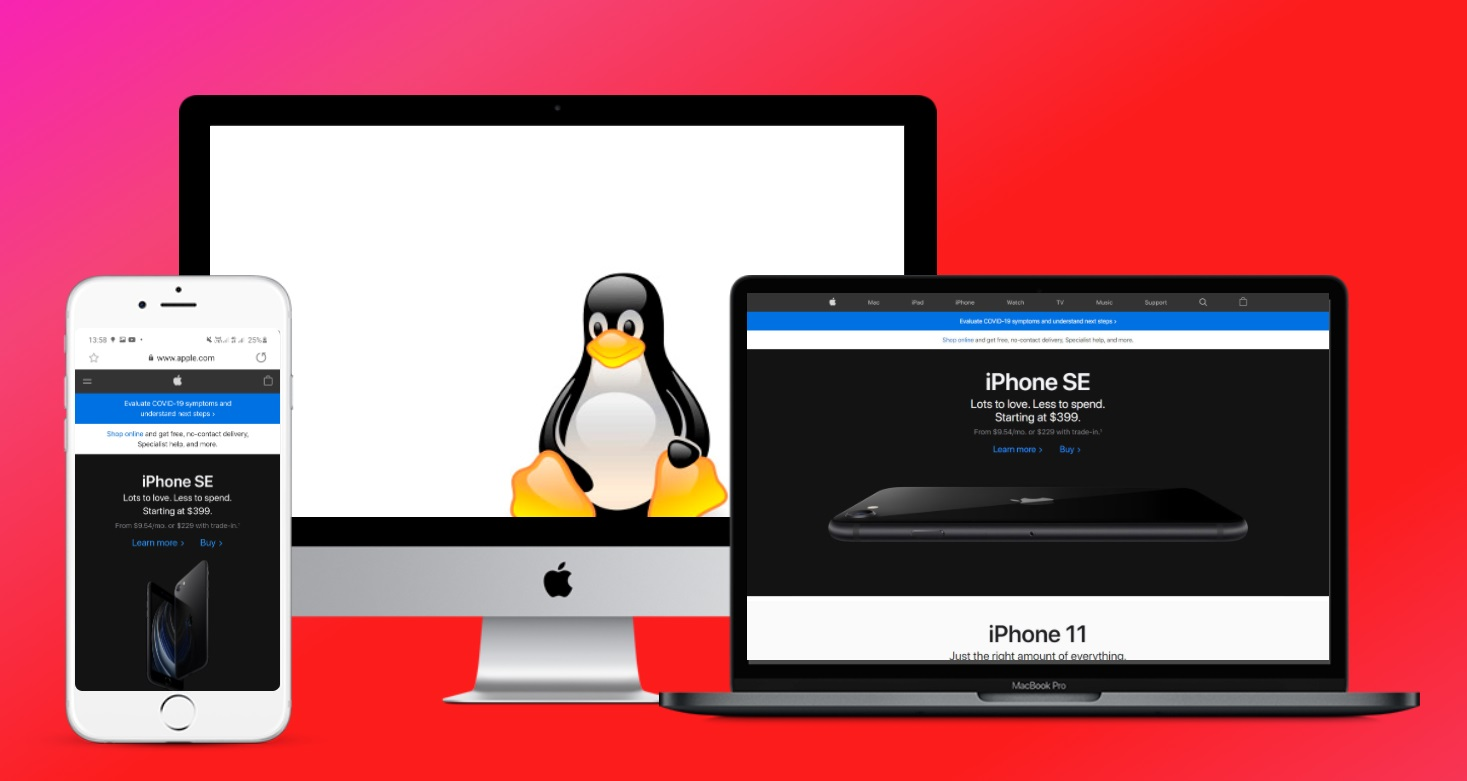
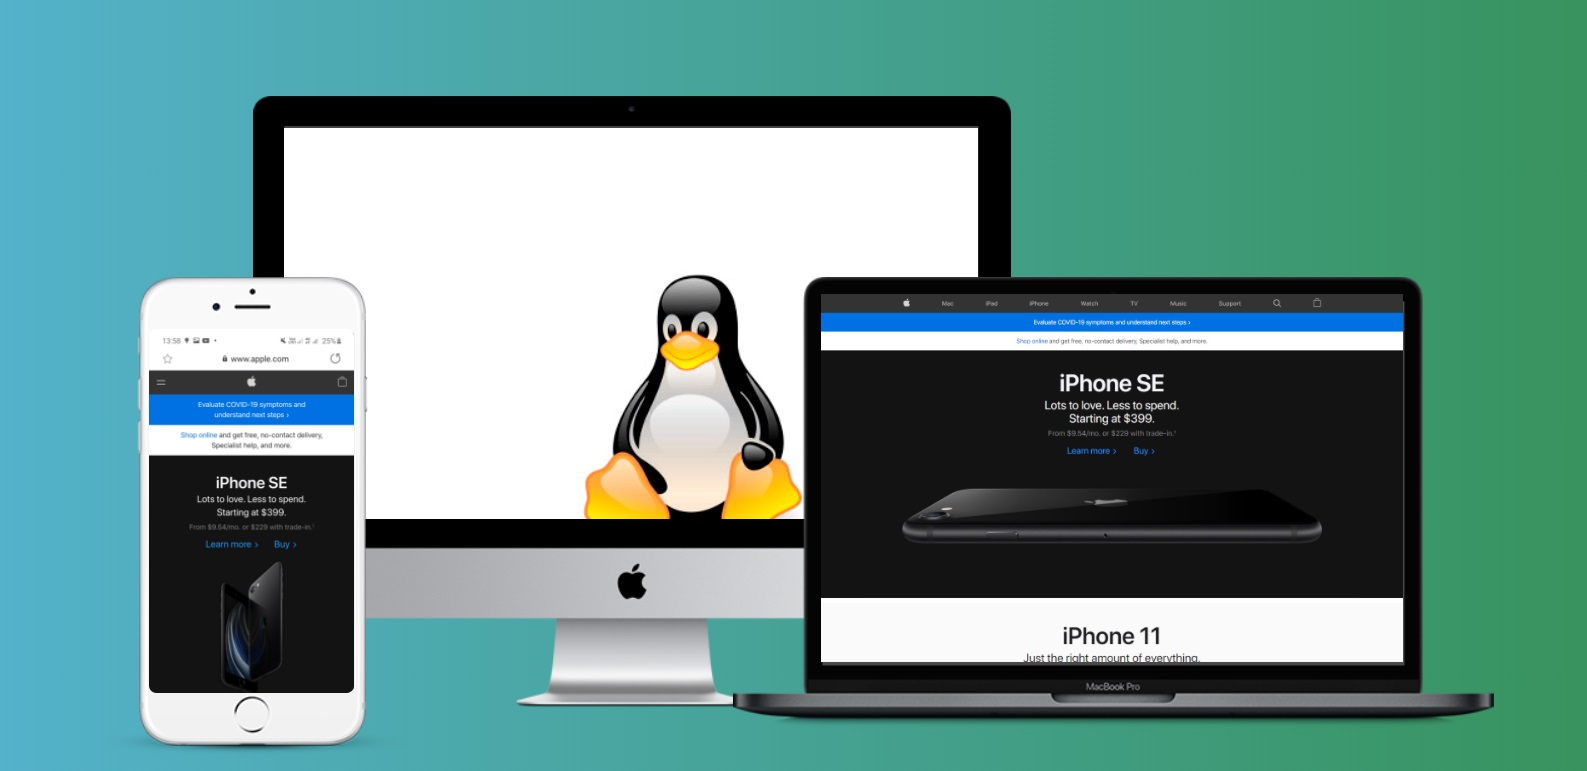
updating in site-2
updating in site-"Apples MockUp"
del window.jpg
new background
new img-portfolio
hidden css file

diff --git a/sites/site-2/Apples-MockUp/style.css b/sites/site-2/Apples-MockUp/style.css
@@ -20,7 +20,7 @@ body {
     width: 100%;
     min-height: 100vh;
     overflow: hidden;
-    background: linear-gradient(147deg, rgba(249,15,216,1) 0%, rgba(245,67,119,1) 26%, rgba(252,28,28,1) 50%, rgba(252,28,28,1) 75%, rgb(245,67,119,1) 100%);
+    background: linear-gradient(to left, rgb(52, 143, 80), rgb(86, 180, 211));
 }
 
 .container .mac {
@@ -96,6 +96,7 @@ body {
 @media(max-width:1110px) {
     .container {
         flex-direction: column;
+        background: linear-gradient(to top, rgb(52, 143, 80), rgb(86, 180, 211));
     }
 
     .container .mac {
